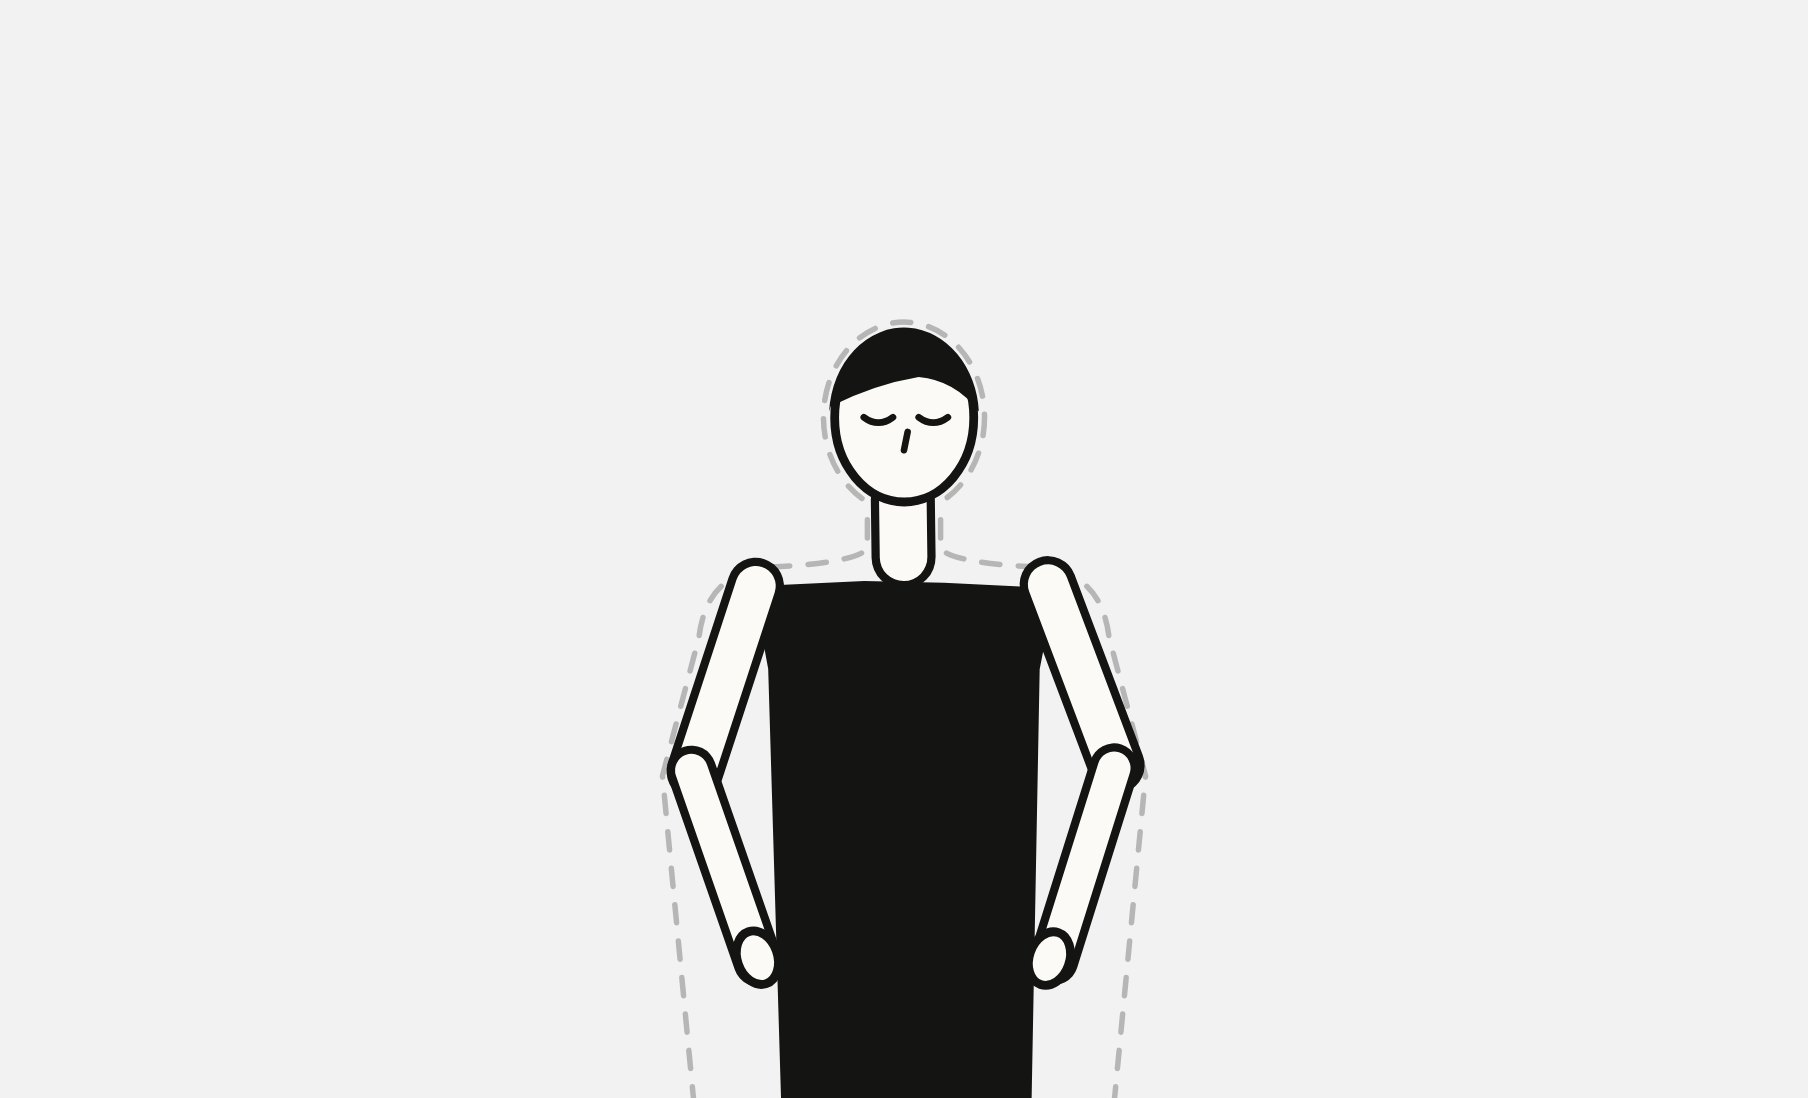
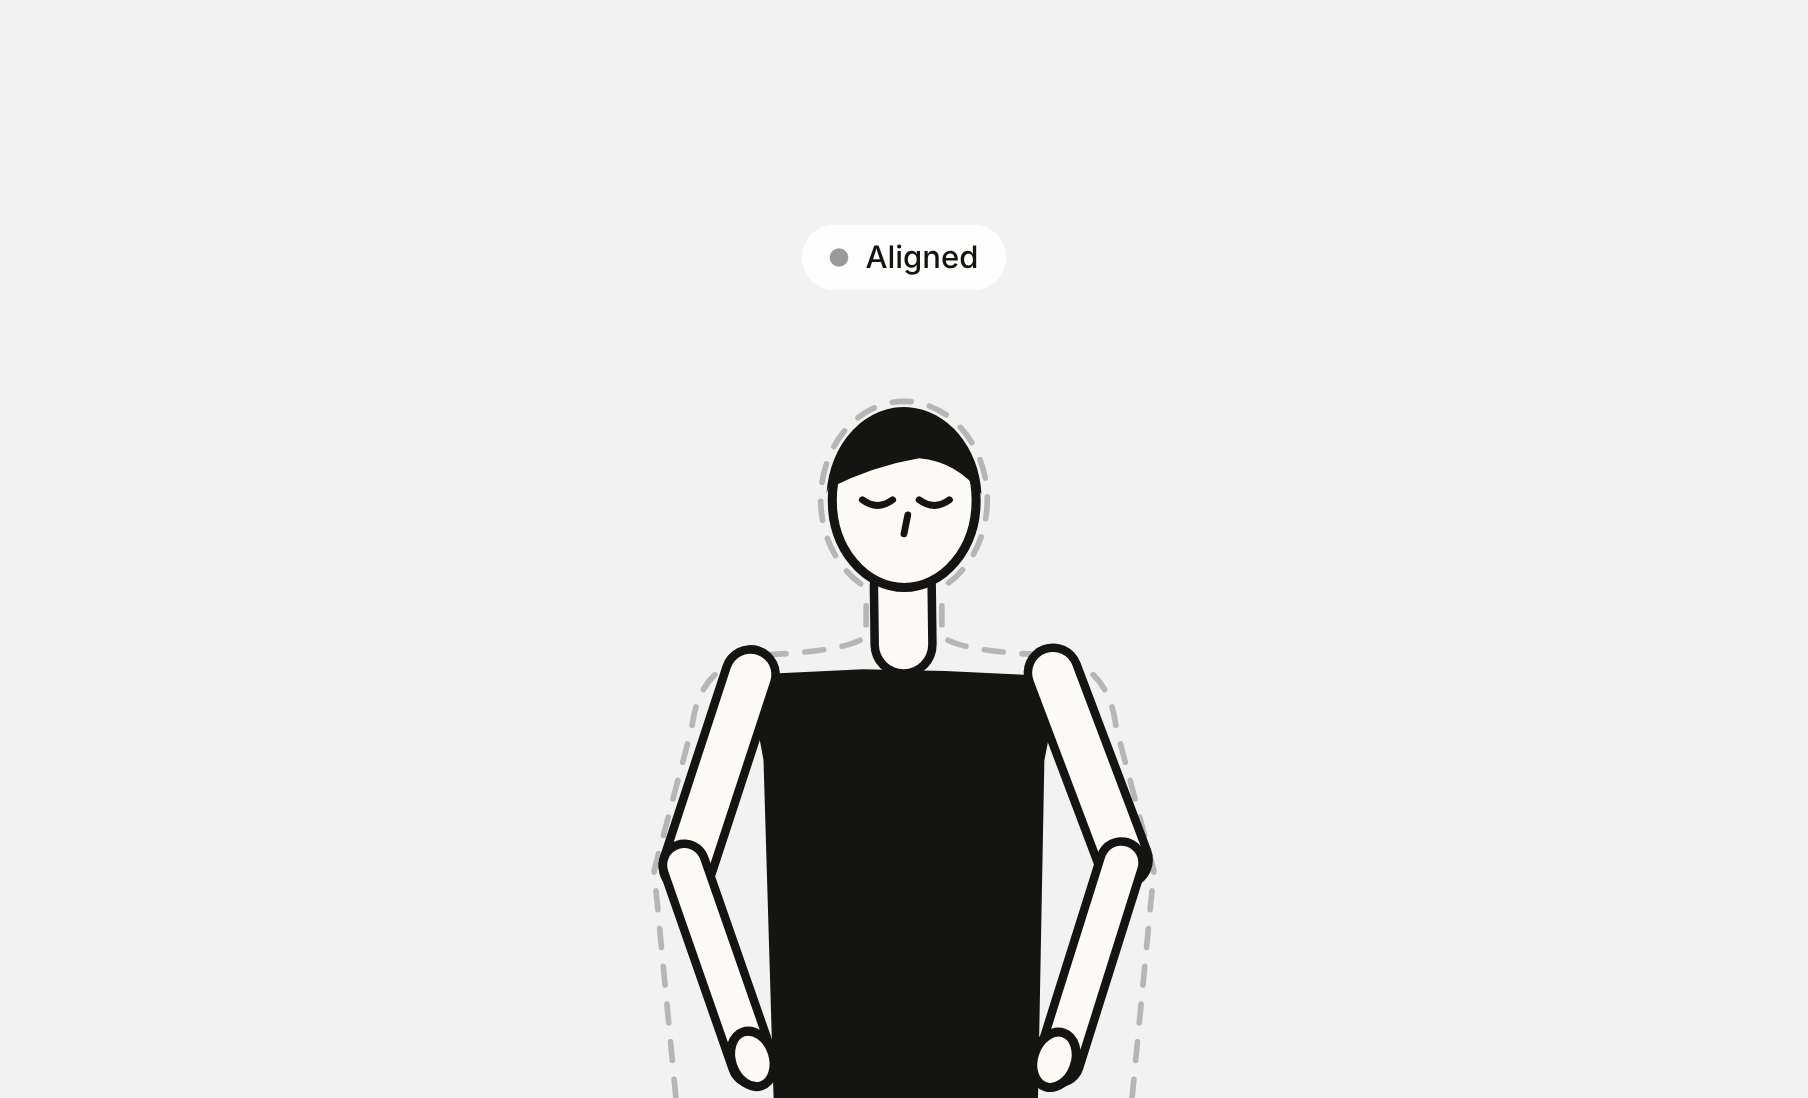
Poise thumbnail: live posture chip above the figure, yellow for leaning back, figure sits lower
Claude-Session: https://claude.ai/code/session_01UHSuVgL78FHF3ZiXhWhDac

Changed region(s): [[0.3407, 0.2787, 0.6504, 1.0], [0.4646, 0.2168, 0.5575, 0.2477], [0.6195, 0.9909, 0.6504, 1.0]]

diff --git a/poise-motion.html b/poise-motion.html
@@ -5,6 +5,7 @@
 <meta name="viewport" content="width=device-width,initial-scale=1">
 <title>Poise motion</title>
 <meta name="robots" content="noindex">
+<link rel="stylesheet" href="https://fonts.googleapis.com/css2?family=Geist:wght@500&display=swap">
 <style>
 html,body{margin:0;height:100%;overflow:hidden;background:#EAEAEA}
 :root[data-theme="dark"],:root[data-theme="dark"] body{background:#2A2A2A}
@@ -20,7 +21,8 @@ canvas{display:block;width:100%;height:100%}
   The same ink figure the app draws for you while you work. It sits, then drifts the way people do
   at a desk: the head slides forward, the whole body comes close to the screen, it straightens up,
   leans back, tips to one side. The ground takes on the app's posture colour for each pose
-  (gray when aligned, amber for a drift, soft red when too close, green when it is fixed, blue-gray when leaning back),
+  (gray when aligned, yellow for a drift, red when too close, green when it is fixed),
+  and a chip above the head says what is happening right now (Slouching, Leaning back...),
   the same way the light bar changes colour.
   ?ground=pn matches the case page panel. ?still=1 draws one aligned frame (for the static image).
 */
@@ -29,7 +31,7 @@ const GQ = Q.get('ground'), STILL = Q.get('still');
 if (GQ === 'pn') document.documentElement.classList.add('pn');
 const GROUND = GQ === 'pn' ? { light: [242, 242, 242], dark: [22, 22, 22] } : { light: [234, 234, 234], dark: [42, 42, 42] };
 // Poise's posture colours (app.js)
-const C = { idle: [179, 194, 216], amber: [240, 160, 32], red: [229, 72, 61], green: [79, 191, 115] };
+const C = { amber: [240, 160, 32], red: [229, 72, 61], green: [79, 191, 115] };   // only yellow, red and green
 
 /* ---------- the figure (from Poise figure.js, upper body only) ---------- */
 function drawFigure(ctx, P, { j = () => 0, ink, paper }) {
@@ -83,15 +85,15 @@ function drawFigure(ctx, P, { j = () => 0, ink, paper }) {
 const ARMS = { eL: [-58, -66], wL: [-40, -14], eR: [58, -66], wR: [40, -14] };
 const Z = { fwd: 0, zoom: 1, tipBack: 0, bend: 0, head: 0, hx: 0, drop: 0 };
 const POSES = [
-  { p: {}, c: null, hold: 2.2 },                                             // aligned, gray
-  { p: { fwd: 1, drop: 8, head: .1 }, c: 'amber', hold: 1.8 },              // head slides forward
-  { p: { fwd: .8, zoom: 1.16, drop: 6, head: .06 }, c: 'red', hold: 1.8 },  // whole body close to the screen
-  { p: {}, c: 'green', hold: 1.1 },                                          // straightens up
-  { p: {}, c: null, hold: 1.4 },
-  { p: { tipBack: 1 }, c: 'idle', hold: 1.9 },                               // leans back
-  { p: {}, c: null, hold: 1.4 },
-  { p: { bend: .2, head: -.12, hx: -6 }, c: 'amber', hold: 1.8 },           // tips to one side
-  { p: {}, c: 'green', hold: 1.1 },
+  { p: {}, c: null, label: 'Aligned', hold: 2.2 },
+  { p: { fwd: 1, drop: 14, head: .1 }, c: 'amber', label: 'Slouching', hold: 1.9 },
+  { p: { fwd: .8, zoom: 1.16, drop: 6, head: .06 }, c: 'red', label: 'Too close to the screen', hold: 1.9 },
+  { p: {}, c: 'green', label: 'Back in line', hold: 1.2 },
+  { p: {}, c: null, label: 'Aligned', hold: 1.4 },
+  { p: { tipBack: 1 }, c: 'amber', label: 'Leaning back', hold: 1.9 },
+  { p: {}, c: null, label: 'Aligned', hold: 1.4 },
+  { p: { bend: .2, head: -.12, hx: -6 }, c: 'amber', label: 'Leaning to one side', hold: 1.9 },
+  { p: {}, c: 'green', label: 'Back in line', hold: 1.2 },
 ];
 const MOVE = 1.15;   // seconds to move between poses
 const ease = t => t < .5 ? 4 * t * t * t : 1 - Math.pow(-2 * t + 2, 3) / 2;
@@ -114,8 +116,12 @@ function mix(A, B, k) {
   for (const key in Z) out[key] = lerp(pa[key], pb[key], k);
   // colour strength: 0 for gray, 1 for a posture colour; the hue moves with it
   const ca = A.c ? C[A.c] : null, cb = B.c ? C[B.c] : null;
-  const col = ca && cb ? ca.map((v, i) => lerp(v, cb[i], k)) : (ca || cb || C.idle);
+  const col = ca && cb ? ca.map((v, i) => lerp(v, cb[i], k)) : (ca || cb || C.green);
   out.col = col; out.amt = lerp(A.c ? 1 : 0, B.c ? 1 : 0, k);
+  // the chip shows the nearer pose, fading out and back in as the label changes
+  const near = k < .5 ? A : B;
+  out.label = near.label; out.dot = near.c ? C[near.c] : null;
+  out.chipA = A.label === B.label ? 1 : Math.min(1, Math.abs(k - .5) * 2.5);
   return out;
 }
 
@@ -153,7 +159,7 @@ function frame(now) {
 
   // framing: upper body, cut at the waist by the bottom edge, like the camera view in the app
   const fitW = 205, fitH = GQ === 'pn' || W / H > 1.6 ? 290 : 236, s = Math.min(W / fitW, H / fitH);
-  const ax = W / 2, ay = H + s * 6;
+  const ax = W / 2, ay = H + s * 34;   // figure sits low, leaving room for the chip above
   const ink = '#141412', paper = '#FBFAF6';   // the app's ink figure, in both themes
 
   // where you sat when you saved your reference: a faint dashed outline
@@ -171,6 +177,22 @@ function frame(now) {
   ctx.save(); ctx.translate(ax, ay + s * -130 * (1 - zoom)); ctx.scale(s * zoom, s * zoom); ctx.translate(0, -30);
   drawFigure(ctx, { ...ARMS, ...S, breath }, { j: jit, ink, paper });
   ctx.restore();
+
+  // live status chip above the head: a dot in the posture colour and what is happening right now
+  const fs = Math.max(11, Math.min(22, s * 8.2)), headTop = ay - s * 222;
+  const cy = Math.max(fs * 1.9, headTop - s * 34);
+  ctx.font = `500 ${fs}px Geist, 'Helvetica Neue', Arial, sans-serif`;
+  const tw = ctx.measureText(S.label).width, dotR = fs * .3, padX = fs * .9, gap = fs * .55;
+  const cw = padX * 2 + dotR * 2 + gap + tw, ch = fs * 2.1, cx = ax - cw / 2;
+  ctx.globalAlpha = S.chipA;
+  ctx.fillStyle = dark ? 'rgba(24,24,26,.82)' : 'rgba(255,255,255,.88)';
+  ctx.beginPath(); ctx.roundRect(cx, cy - ch / 2, cw, ch, ch / 2); ctx.fill();
+  const pulse = STILL ? 1 : .75 + .25 * Math.sin(time * 4);
+  ctx.fillStyle = S.dot ? rgb(S.dot) : (dark ? '#8C8D92' : '#9A9A9A');
+  ctx.beginPath(); ctx.arc(cx + padX + dotR, cy, dotR * pulse, 0, Math.PI * 2); ctx.fill();
+  ctx.fillStyle = dark ? '#EDEDED' : '#141412'; ctx.textBaseline = 'middle';
+  ctx.fillText(S.label, cx + padX + dotR * 2 + gap, cy + fs * .04);
+  ctx.globalAlpha = 1;
 }
 
 // follow the portfolio's theme (same rule as the other thumbnails)
@@ -182,6 +204,7 @@ function theme() {
   if (d !== dark) { dark = d; document.documentElement.dataset.theme = d ? 'dark' : 'light'; if (STILL) frame(performance.now()); }
 }
 theme(); setInterval(theme, 500);
+if (document.fonts) document.fonts.load('500 16px Geist').then(() => { if (STILL) frame(performance.now()); });
 requestAnimationFrame(frame);
 </script>
 </body>
